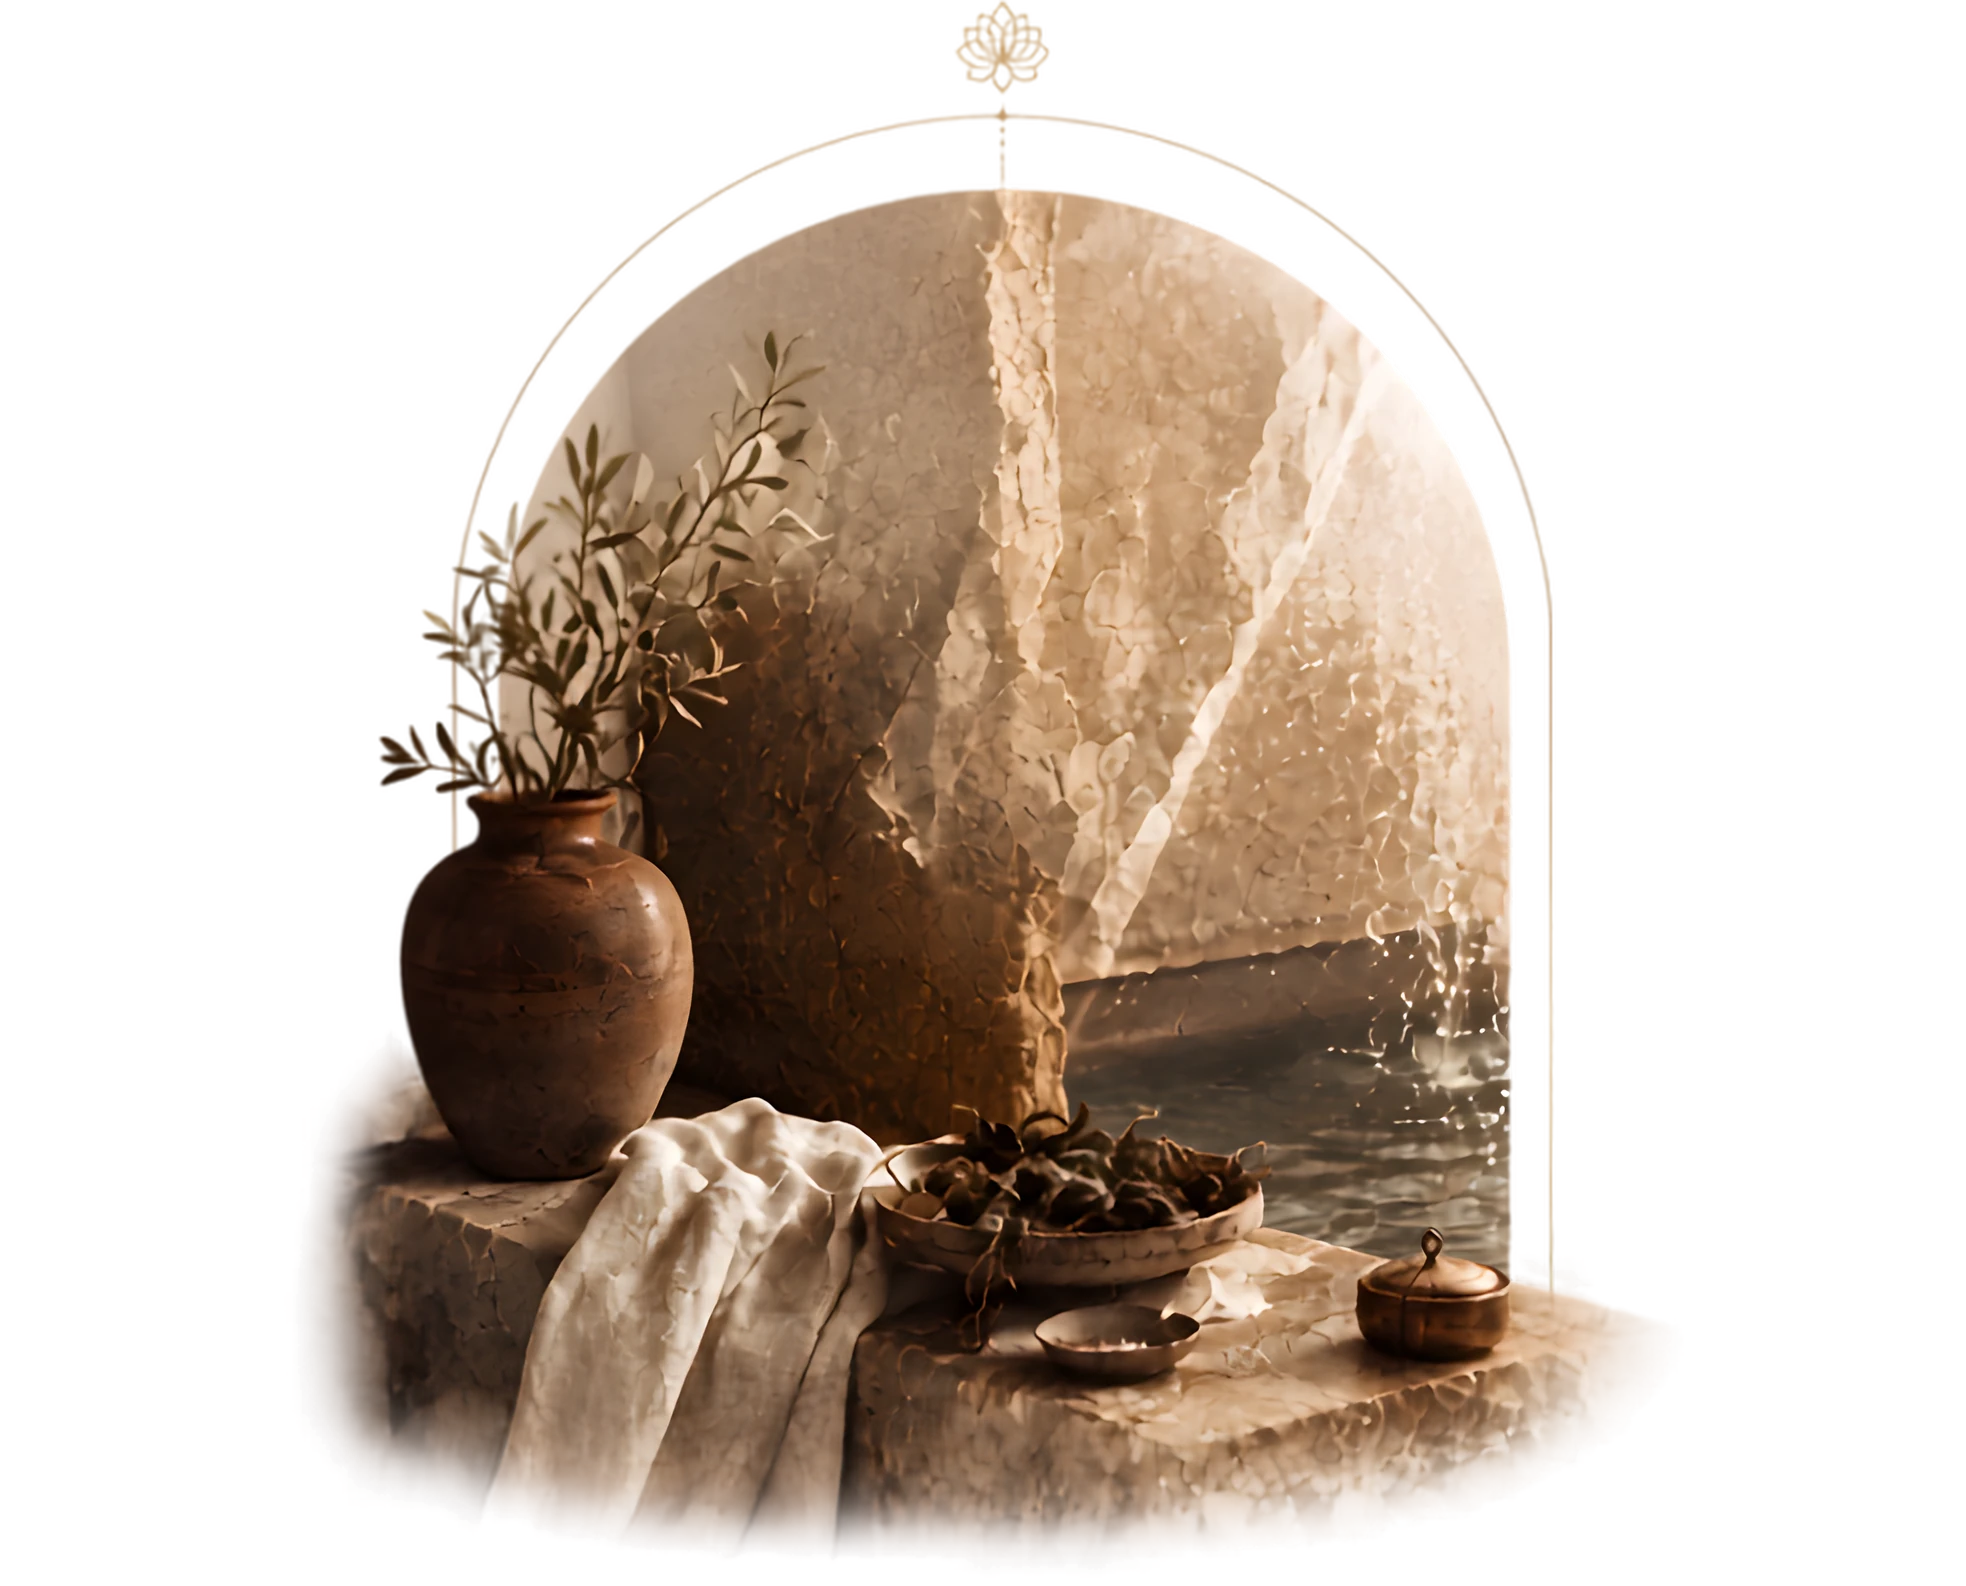
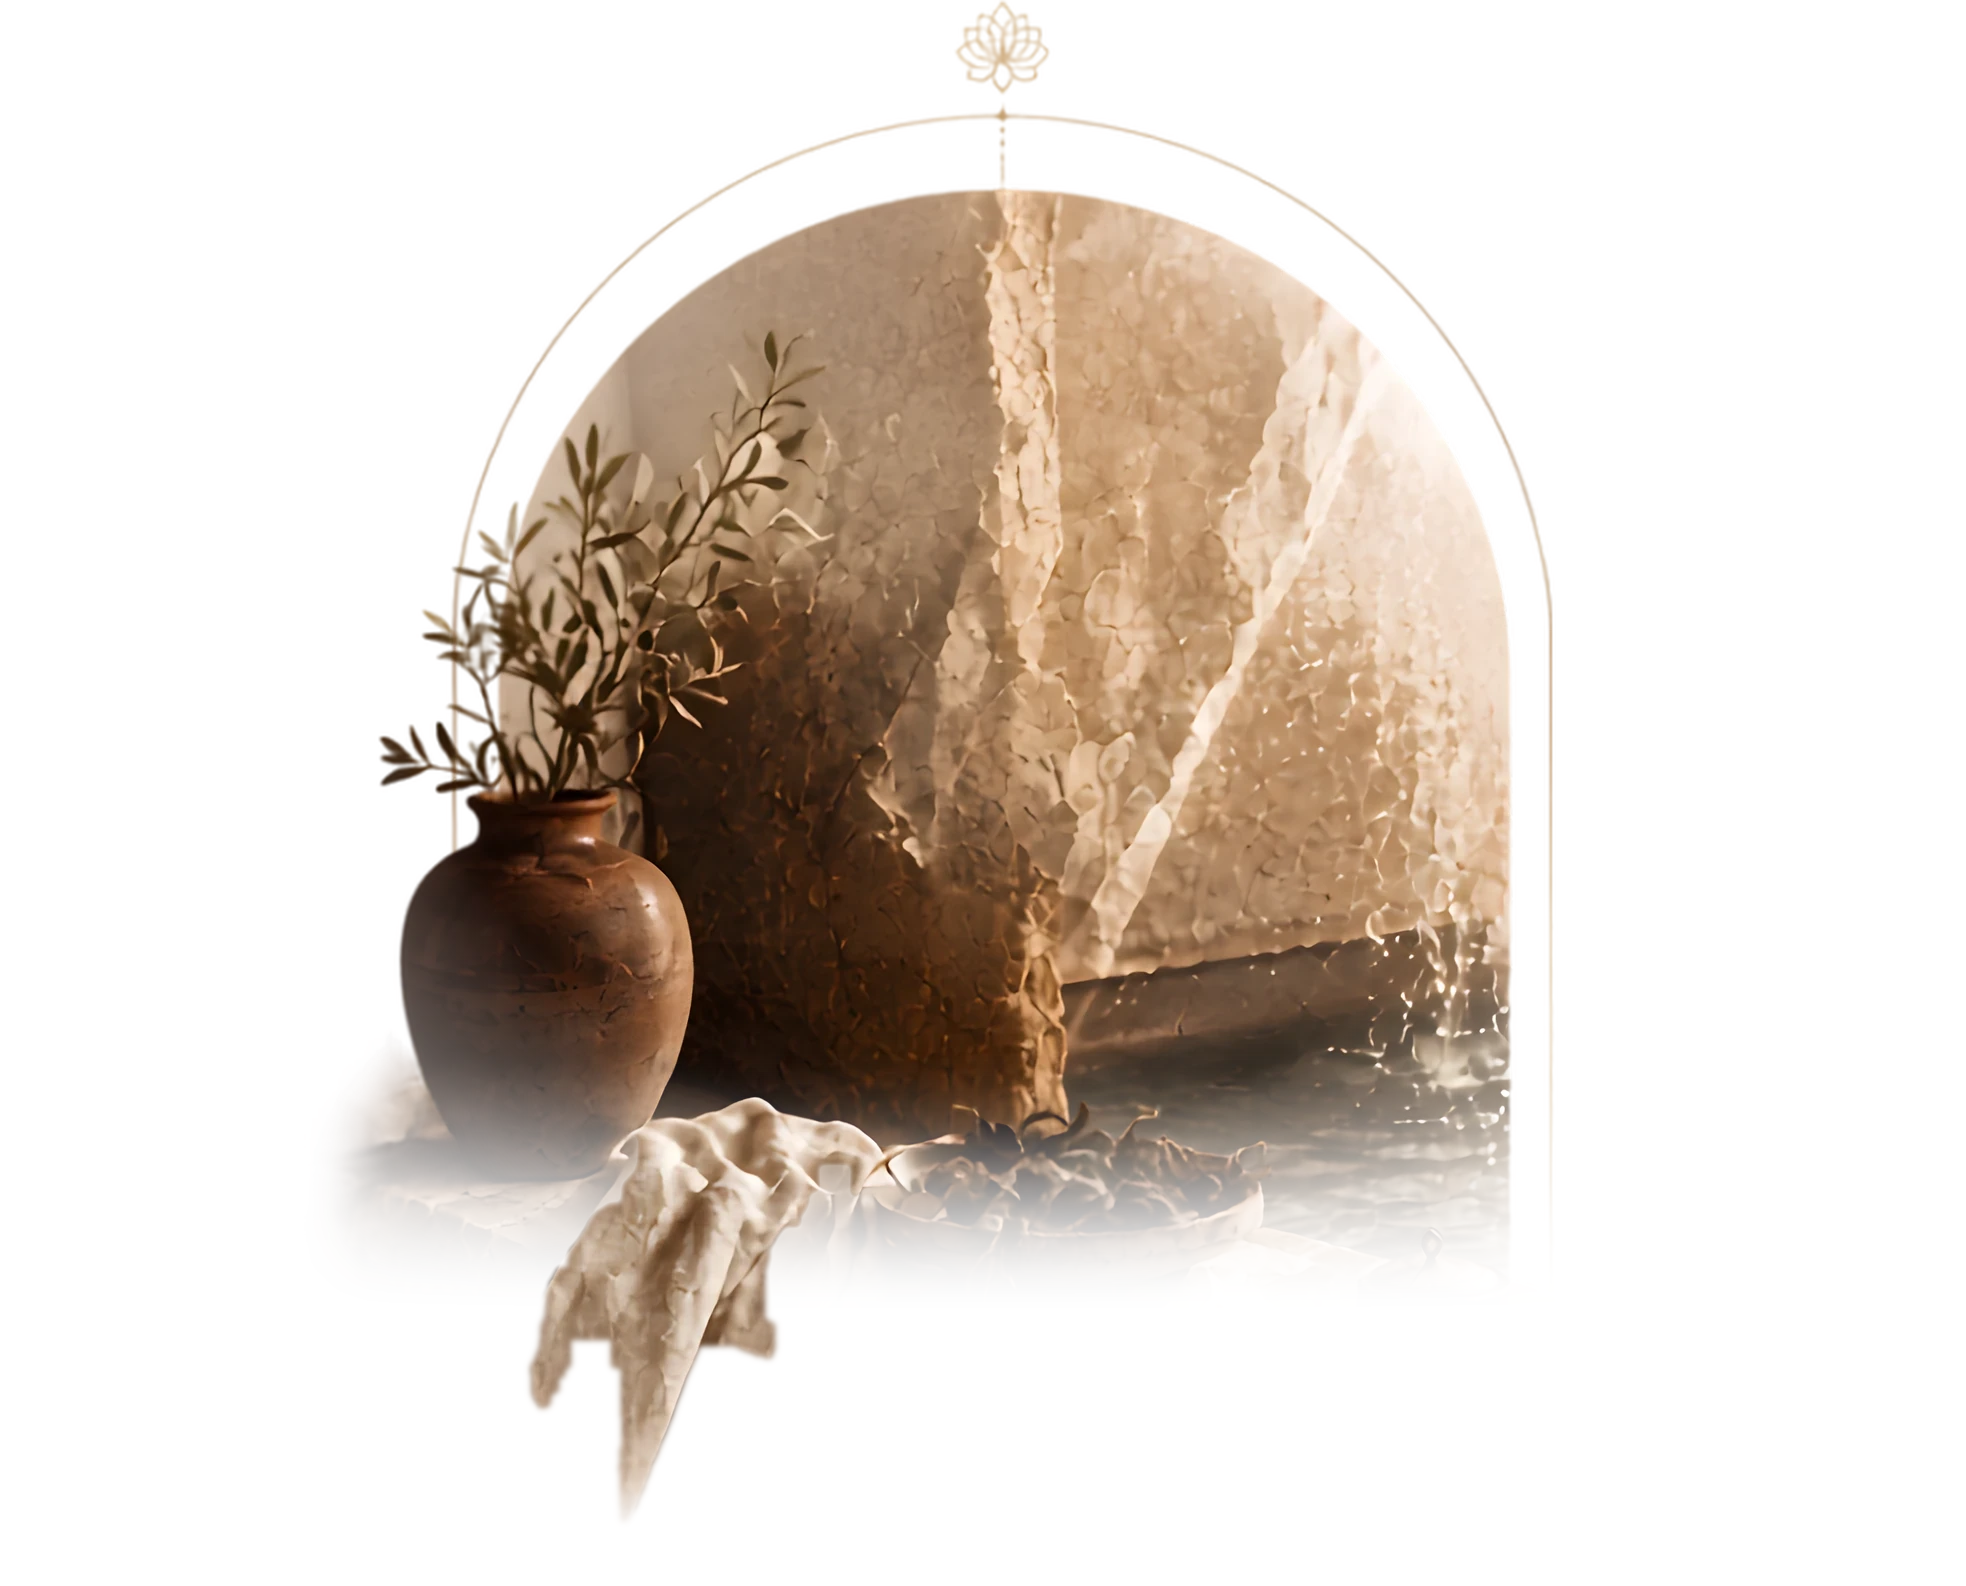
Manifeste : la serviette retombe sur la section suivante

Changed region(s): [[0.1551, 0.5561, 0.8377, 0.9887]]

diff --git a/index.html b/index.html
@@ -738,6 +738,21 @@
             display: flex;
             justify-content: center;
         }
+        /* La serviette déborde sous la section (seul le bas de l'image dépasse) */
+        @supports (overflow: clip) {
+            .hero-manifeste {
+                overflow: visible;
+                overflow-x: clip;
+            }
+            .manifeste-image {
+                margin-bottom: calc(-6.5vw - 85px);
+            }
+            @media (max-width: 940px) {
+                .manifeste-image {
+                    margin-bottom: calc(-15.2vw - 36px);
+                }
+            }
+        }
         .manifeste-image img {
             /* Image agrandie : déborde un peu, les bords fondus restent invisibles */
             width: 120%;
@@ -745,9 +760,10 @@
             margin: 0 -10%;
             height: auto;
             display: block;
-            /* Fond l'image dans le fond rouge : bords et bas qui disparaissent en douceur */
-            -webkit-mask-image: radial-gradient(ellipse 56% 60% at 50% 40%, #000 52%, rgba(0,0,0,.6) 72%, transparent 100%);
-            mask-image: radial-gradient(ellipse 56% 60% at 50% 40%, #000 52%, rgba(0,0,0,.6) 72%, transparent 100%);
+            /* Le fondu est intégré au fichier : bords et bas qui disparaissent en douceur,
+               sauf la serviette qui reste visible et retombe sur la section suivante */
+            position: relative;
+            z-index: 4;
         }
 
         /* ===== ORIGINES ===== */
